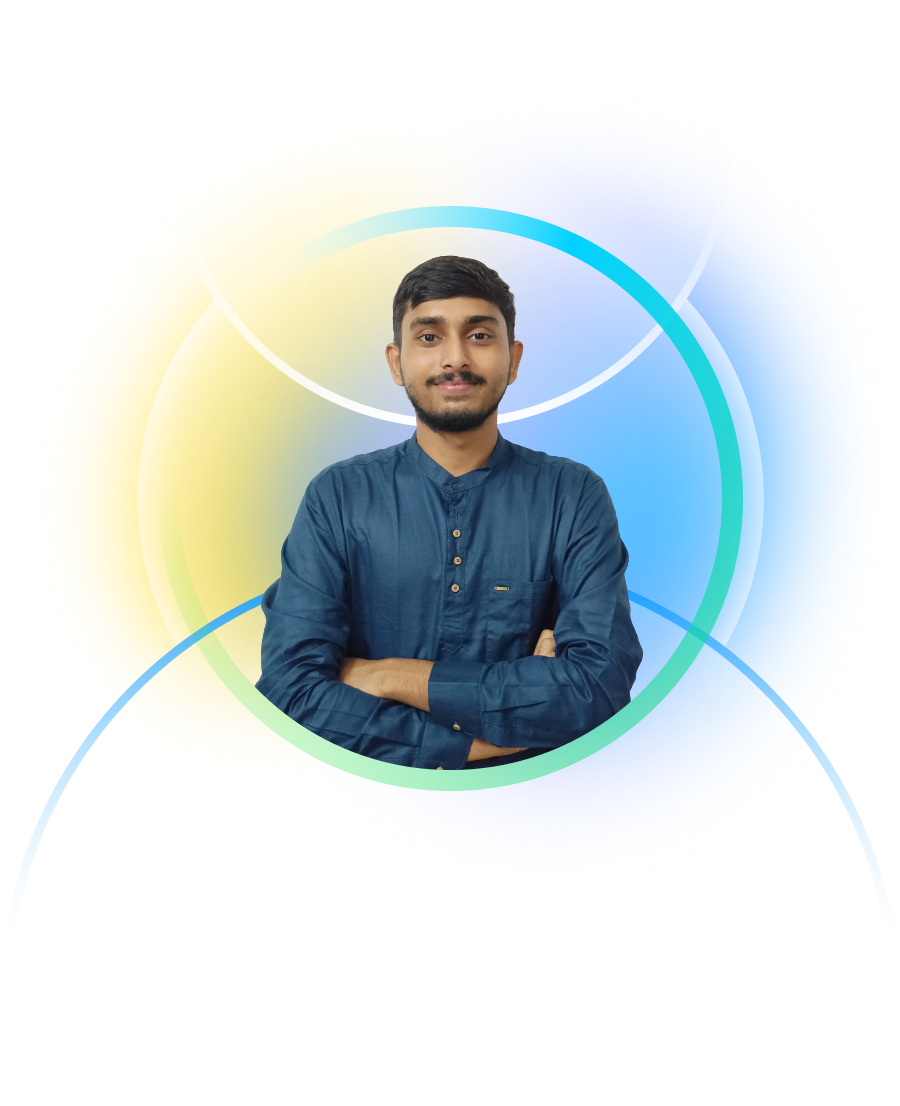
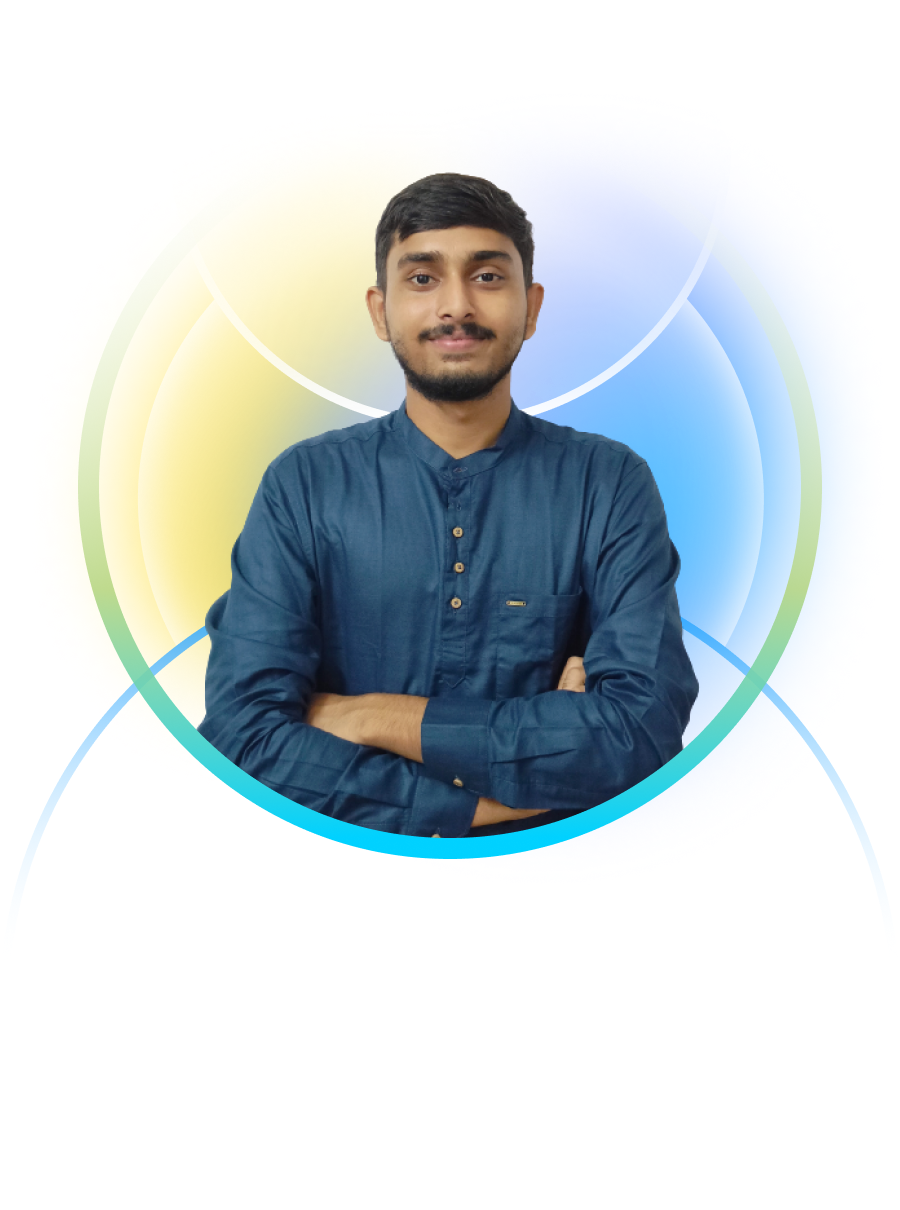
messege

diff --git a/src/components/Head.jsx b/src/components/Head.jsx
@@ -37,10 +37,12 @@ function Head() {
     }
   }, [theme]);
 
-  const [isActive, setIsActive] = useState(false);
-  const handleClick = () => {
+  const [isActive, setIsActive] = useState(1);
+  const handleClick = (item) => {
+    console.log(item);
     setOpen(!isOpen);
-    setIsActive(!isActive);
+    setIsActive(item.id);
+    console.log(isActive);
   };
   //
 
@@ -54,50 +56,64 @@ function Head() {
     },
     {
       id: 2,
-      name: <CiUser className="m-auto" />,
+      name: <CiUser className="m-auto self-center" />,
       description: "About",
     },
 
     {
       id: 3,
-      name: <CiGrid42 className="m-auto" />,
+      name: <CiGrid42 className="m-auto self-center" />,
       description: "Skill",
     },
     {
       id: 4,
-      name: <CiMonitor className="m-auto" />,
+      name: <CiMonitor className="m-auto self-center" />,
       description: "Projects",
     },
     {
       id: 5,
-      name: <CiPhone className="m-auto" />,
+      name: <CiPhone className="m-auto self-center" />,
       description: "Contact",
     },
   ];
 
   return (
     <div className="w-full m-auto flex justify-center select-none ">
-      <div className="bg-midblue dark:bg-gray backdrop backdrop-blur-md dark:bg-opacity-20 bg-opacity-20 w-full h-[10vh] rounded-b-xl lg:hidden fixed z-40 "></div>
+      <div
+        className={`bg-midblue dark:bg-gray backdrop backdrop-blur-md dark:bg-opacity-20 bg-opacity-20 w-full h-[10vh] rounded-b-xl lg:hidden fixed  z-40`}
+      ></div>
       <div className="fixed top-2 lg:hidden z-50 left-4">
         <Hamburger toggled={isOpen} toggle={setOpen} />
       </div>
       <div
         className={`${
           isOpen ? "fixed" : "hidden"
-        } lg:block mt-8 lg:mt-3 z-20 lg:bg-gradient-to-r from-cayn fixed   to-blue w-[95%] shadow-3xl bg-midblue  p-3 pb-2  m-2 backdrop-filter   backdrop-blur-md bg-opacity-40   rounded-lg shadow-2xl  lg:w-[60%] `}
+        } lg:block mt-8 lg:mt-3 z-20 lg:bg-gradient-to-r from-cayn fixed   to-blue w-[95%] shadow-3xl bg-midblue pb-2   backdrop-filter   backdrop-blur-md bg-opacity-40   rounded-lg shadow-2xl  lg:w-[60%] `}
       >
         <div className="flex lg:flex-row lg:-end flex-col  gap-4 m-auto justify-around lg:py-0 pt-8">
           {items.map((item) => (
             <a
               href={`#${item.description}`}
               key={item.id}
-              onClick={handleClick}
-              className={`group  border-b-[1px] p-4 border-gray py-2 lg:py-0 lg:border-0   hover:text-slate  rounded-xl    transition duration-450 ease-in-out text-white text-xl  flex flex-col justify-center items-center cursor-pointer
-              
+              onClick={() => {
+                handleClick(item);
+              }}
+              className={`group w-full  lg:w-[4em] h-[3em]   self-center hover:text-slate   lg:rounded-b-xl  transition duration-450 ease-in-out text-white text-xl  flex flex-col justify-center items-center cursor-pointer
+            ${
+              isActive == item.id
+                ? "lg:text-slate  lg:bg-white  lg:shadow-2xl"
+                : "lg:text-white"
+            }
               }`}
             >
               {item.name}
-              <span className="text-sm lg:invisible lg:group-hover:visible group-hover:text-slate text-center text-white  ">
+              <span
+                className={`${
+                  isActive == item.id
+                    ? "lg:visible lg:text-slate"
+                    : "lg:invisible lg:text-white"
+                } text-sm  lg:group-hover:visible group-hover:text-slate text-center text-white `}
+              >
                 {item.description}
               </span>
             </a>
@@ -110,7 +126,9 @@ function Head() {
             />
           </span>
         </div>
+        <div className="w-full h-1 bg-white  absolute inset-0 rounded-t-lg"></div>
       </div>
+
       <div className="fixed top-3 z-50 right-4 ">
         <DarkModeSwitch
           checked={isDarkMode}

diff --git a/src/components/Projects.jsx b/src/components/Projects.jsx
@@ -36,7 +36,7 @@ const frontend_projects = [
 
 const other_projects = [
   {
-    name: "StockPrediction",
+    name: "Stock",
     description: "Stpck Market Price Prediction",
     github:
       "https://github.com/kushaljgec2025/Stock_Market_Price_Prediction_Using-RNN",
@@ -86,9 +86,9 @@ function Projects() {
                           className="rounded-3xl overflow-hidden object-cover"
                         />
                       </div>
-                      <div className="flex absolute inset-0 justify-ends items-end gap-2 rounded-3xl overflow-hidden  m-3 mb-3 grow-1">
+                      <div className="flex absolute inset-0 justify-ends items-end gap-2   m-3 mb-3 grow-1">
                         <a
-                          className=" group  flex-none    p-2 rounded-full bg-slate bg-opacity-50 backdrop backdrop-blur-md  transition duration-500 ease-in-out "
+                          className=" group  flex-none cursor-pointer hover:ring-midblue hover:ring-2  p-2 rounded-full bg-slate bg-opacity-50 backdrop backdrop-blur-md  transition duration-500 ease-in-out "
                           href={project.github}
                           target="_blank"
                         >
@@ -98,7 +98,7 @@ function Projects() {
                           {project.name}
                         </p>
                         <a
-                          className=" group flex-none  p-2  rounded-full bg-slate bg-opacity-50 backdrop backdrop-blur-md transition duration-500 ease-in-out "
+                          className=" group flex-none cursor-pointer hover:ring-midblue hover:ring-2 p-2  rounded-full bg-slate bg-opacity-50 backdrop backdrop-blur-md transition duration-500 ease-in-out "
                           href={project.demo}
                           target="_blank"
                         >
@@ -135,17 +135,17 @@ function Projects() {
                     </div>
                     <div className="flex absolute inset-0 justify-ends items-end gap-1 rounded-3xl overflow:hidden  m-3 mb-3 grow-1">
                       <a
-                        className=" group  flex-none    p-2 rounded-full bg-slate bg-opacity-50 backdrop backdrop-blur-md  transition duration-500 ease-in-out "
+                        className=" group  flex-none cursor-pointer  hover:ring-midblue hover:ring-2  p-2 rounded-full bg-slate bg-opacity-50 backdrop backdrop-blur-md  transition duration-500 ease-in-out "
                         href={project.github}
                         target="_blank"
                       >
                         <Github className="group-hover:scale-125  transition duration-500 ease-in-out " />
                       </a>
-                      <p className="grow  self-start  bg-gray rounded-xl !text-white text-center flex justify-center items-center   transition duration-500 ease-in-out ">
+                      <p className="grow   self-start  bg-gray rounded-xl !text-white text-center flex justify-center items-center   transition duration-500 ease-in-out ">
                         {project.name}
                       </p>
                       <a
-                        className=" group flex-none  p-2  rounded-full bg-slate bg-opacity-50 backdrop backdrop-blur-md transition duration-500 ease-in-out "
+                        className=" group flex-none cursor-pointer hover:ring-midblue hover:ring-2  p-2  rounded-full bg-slate bg-opacity-50 backdrop backdrop-blur-md transition duration-500 ease-in-out "
                         href={project.demo}
                         target="_blank"
                       >

diff --git a/src/components/Welcome.jsx b/src/components/Welcome.jsx
@@ -10,13 +10,14 @@ function Welcome() {
         className="flex justify-center w-full items-center lg:pt-[15vh]"
       >
         <div
-          className="lg:w-[70%] w-[90%]  mt-[15vh]  lg:mt-[5vh]   flex flex-col items-stretch justify-between  "
+          className="lg:w-[70%] w-[90%]  mt-[15vh]  lg:mt-[5vh]   flex flex-col  justify-between  "
           data-aos="fade-up"
         >
-          <div className=" p-2 flex  lg:flex-row flex-col gap-2  ">
-            <div className=" m-auto   h-[20em]">
-              <img className="w-full z-1" src={user_img} alt="user_img" />
+          <div className="  flex  lg:flex-row flex-col justify-center gap-2  ">
+            <div className=" flex justify-center  lg:w-[25em] m-auto rounded-[50%] border-5 border-gray   ">
+              <img className=" z-1  m-auto" src={user_img} alt="user_img" />
             </div>
+
             <div className=" basis-1/2 flex justify-center flex-col  gap-5 ">
               <h2>HEY , I AM</h2>
               <h5 className="text-6xl text-midblue">Kushal Ghosh</h5>
@@ -33,7 +34,6 @@ function Welcome() {
               </div>
             </div>
           </div>
-          <Line />
         </div>
       </div>
     </>

diff --git a/src/components/About.jsx b/src/components/About.jsx
@@ -1,6 +1,6 @@
 import React from "react";
 import Line from "./Line";
-import user_img2 from "../img/user_img2.jpg";
+import user_img_col from "../img/use_img_col.jpg";
 import { Github, Facebook, Instagram, Linkedin } from "./Links";
 import { FaBloggerB } from "react-icons/fa";
 import { Link, NavLink } from "react-router-dom";
@@ -61,7 +61,7 @@ function About() {
             <div className="group relative about_img lg:w-[80%] rounded-2xl   overflow-hidden my-5 mx-auto shadow-2xl ">
               <img
                 className="   group-hover:scale-110 transition duration-500 ease-in-out object-fit m-auto "
-                src={user_img2}
+                src={user_img_col}
                 alt="img"
               />
               <div className="  absolute inset-0 flex z-10 justify-around hover:bg-gradient-to-t from-black/40 to-transparent via-bg-transparent items-end gap-4 py-2   ">

diff --git a/src/components/Line.jsx b/src/components/Line.jsx
@@ -1,7 +1,7 @@
 import React from "react";
 
 const Line = () => {
-  return <div className=" h-[1px] bg-white w-full my-4 dark:bg-slate "></div>;
+  return <div className=" h-[1px] bg-white w-full my-8 dark:bg-slate "></div>;
 };
 
 export default Line;

diff --git a/src/App.jsx b/src/App.jsx
@@ -17,7 +17,7 @@ import { useEffect } from "react";
 function App() {
   useEffect(() => {
     AOS.init({
-      duration: 1000,
+      duration: 1500,
     });
   });
   return (
